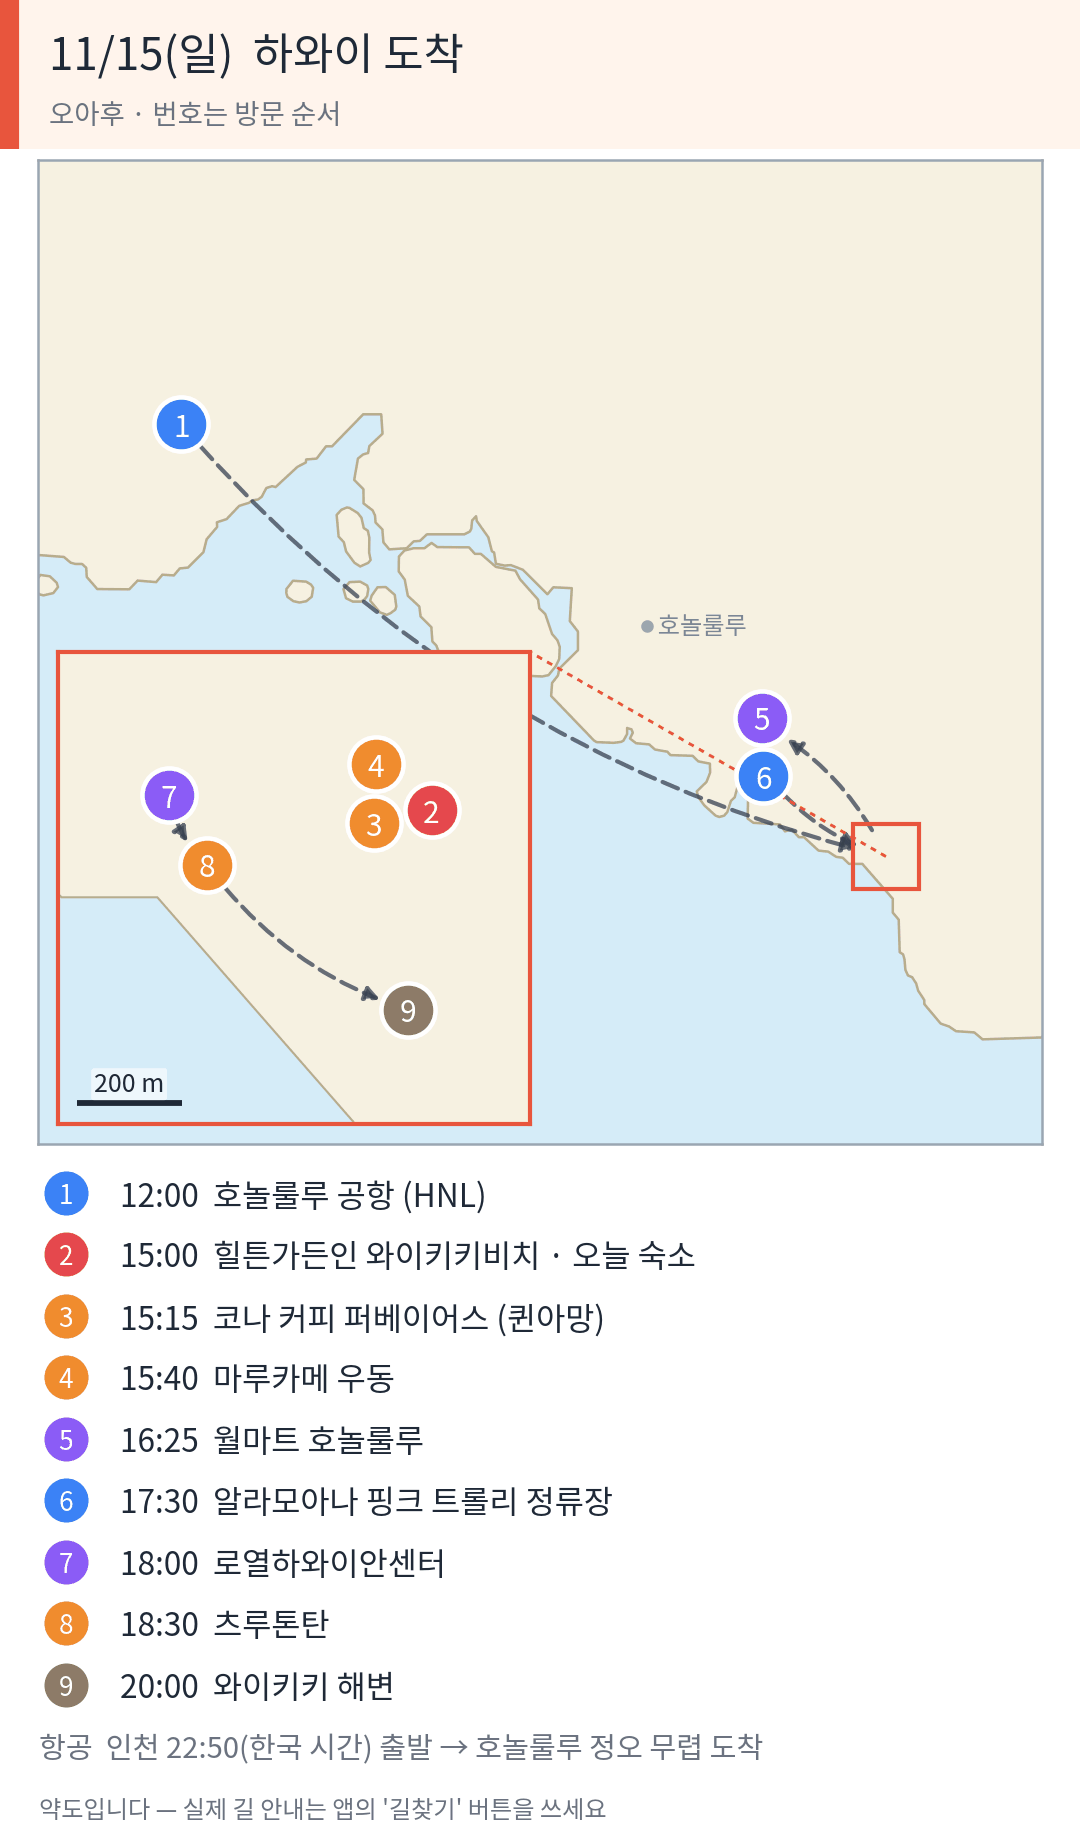
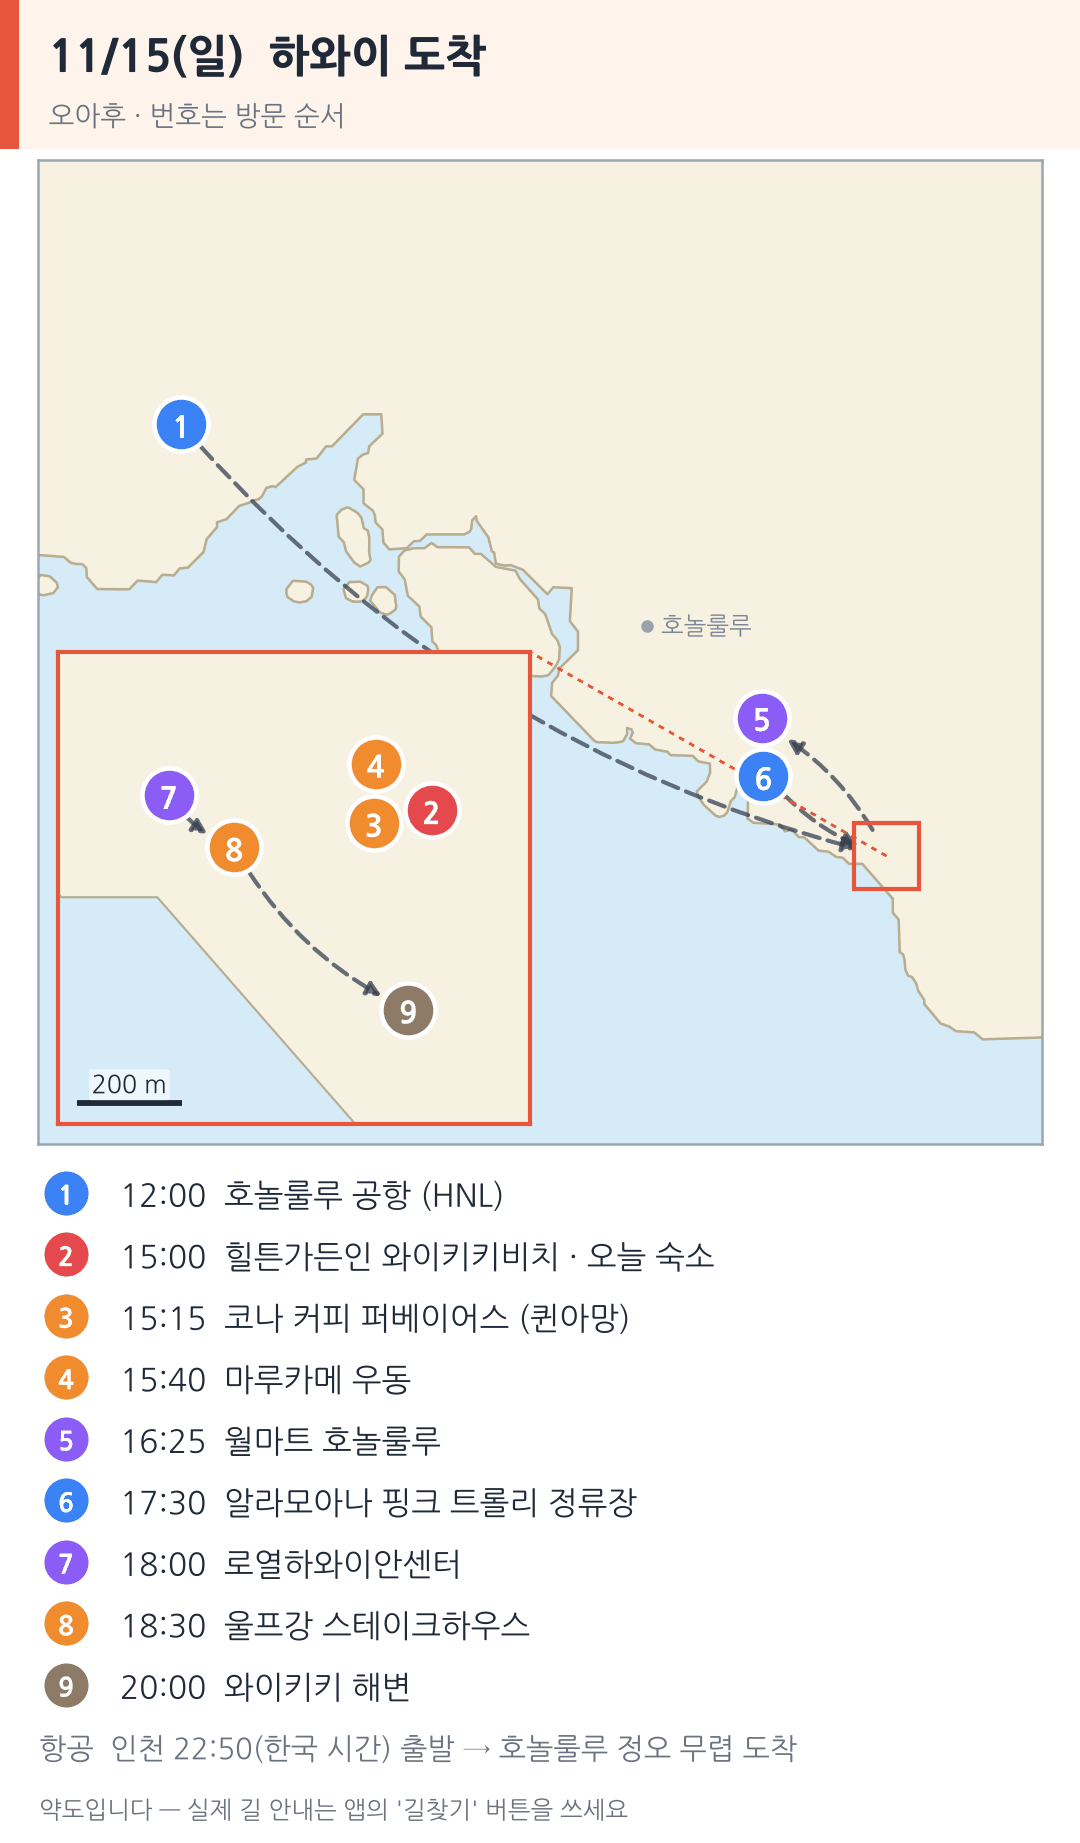
11/15 지도 다시 그리기 (울프강 복구 반영)
Claude-Session: https://claude.ai/code/session_01TtVcSoKscqhBRvKoZFYa3E

diff --git a/sw.js b/sw.js
@@ -3,7 +3,7 @@
 // (파일을 고친 뒤 `node tools/build-precache.mjs` 를 실행하면 버전과 목록이 바뀐다 — 직접 고치지 말 것).
 
 /* PRECACHE:BEGIN */
-const VERSION = '3e97-4495';
+const VERSION = '6eec-105a';
 const FILES = [
   ['index.html', '9ca27e5d'],
   ['manifest.webmanifest', '433937d9'],
@@ -46,8 +46,8 @@ const FILES = [
   ['data/trip.json', 'b8ab2a6f'],
   ['data/videos.json', 'f543b457'],
   ['maps/big-island.png', 'a8e3a173'],
-  ['maps/day-1115-wide.png', 'fcf13574'],
-  ['maps/day-1115.png', '5308075f'],
+  ['maps/day-1115-wide.png', '89913008'],
+  ['maps/day-1115.png', '77ce582c'],
   ['maps/day-1116-wide.png', '0dbb55aa'],
   ['maps/day-1116.png', 'ed951678'],
   ['maps/day-1117-wide.png', '75e6374c'],
